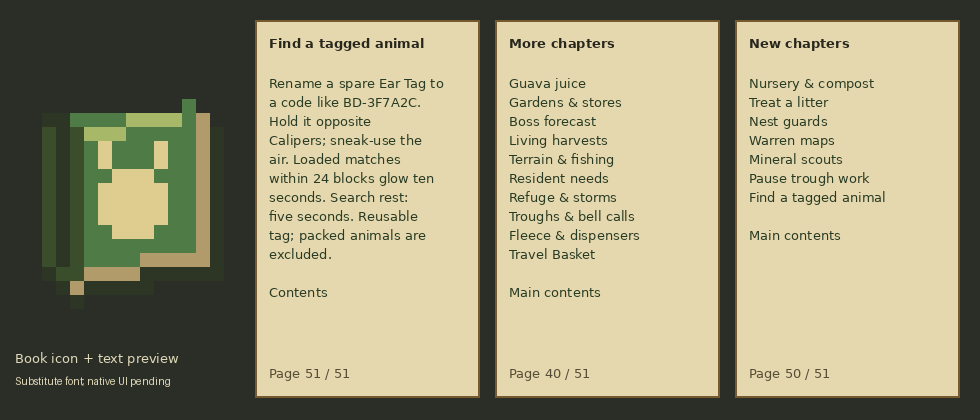
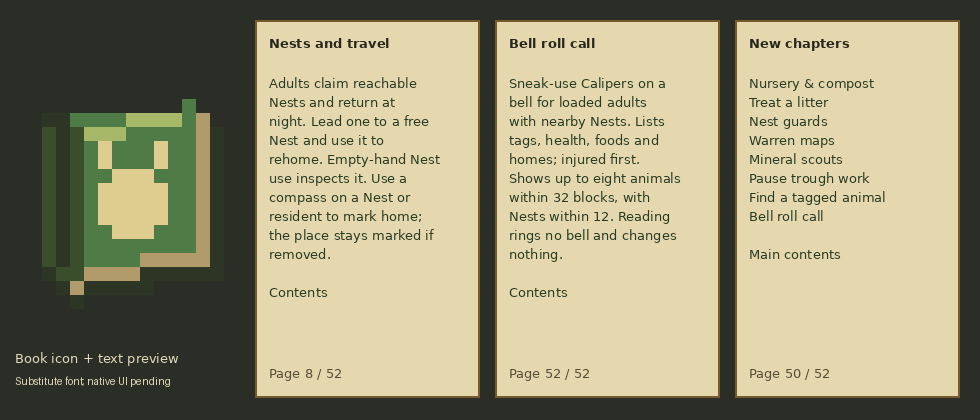
Add resident home compass marking and bell roll calls

diff --git a/art/gen_guide.py b/art/gen_guide.py
@@ -11,7 +11,7 @@ PAGES = {
     5: ('Hatch the litter', 'Plant a seed on farmland; dispensers plant into air above it. Bone meal speeds growth; hand or dispenser Starlit Dust ripens it. Break the ripe crop to hatch pups. Fortune improves quality. Leave room.'),
     6: ('Guava quality', 'Better guavas improve inherited stat gains. Feed both parents: their qualities are averaged. Golden: 1, Diamond: 2, Netherite: 4, Star: 7, Beacon: 12, Dragon Egg: 20.'),
     7: ('Keep a pedigree', 'Log animals with a Pedigree Book; Ear Tags label them. Sneak-use with a filled basket in the other hand to log its animal. Normal use opens records. Filter contents by traits/tags or senses>=20; hover the field for syntax.'),
-    8: ('Nests and travel', 'Adults claim a reachable Nest and return at night. Lead an adult to a free Nest and use it to move home. Empty-hand use inspects the resident. Use a compass to mark a Nest; its place stays marked if removed.'),
+    8: ('Nests and travel', 'Adults claim reachable Nests and return at night. Lead one to a free Nest and use it to rehome. Empty-hand Nest use inspects it. Use a compass on a Nest or resident to mark home; the place stays marked if removed.'),
     9: ('Food and troughs', 'Guavas suit every line; other foods follow Diet. Fill a trough for healing. Injured adults can eat near their Nest at night; keep food and a safe route within four blocks of home. Sneak-empty withdraws stock.'),
     10: ('Life at home', 'Healthy adults visit nearby bells at noon. Ring one to call a daytime visit. Keep it within 12 blocks of home, with walking space. Injury, threats, leads, rides and night interrupt.'),
     11: ('Gentle sampling', 'Use a Sampling Syringe on an animal at half health or better. It yields one Tissue Sample without harm; recovery takes five minutes. Sneak-use Calipers for care readiness and timers.'),
@@ -38,7 +38,7 @@ PAGES = {
     32: ('Find refuge', 'Non-feral residents retreat from visible threats to a safer dry spot near home. Meals and work pause. Leads and rides take over. Feral lines keep their retaliation. No safe route means no retreat.'),
     33: ('Storm shelter', 'Idle adults wait under cover near their Nest during thunderstorms. Leave a dry floor, room to stand and a safe route. Meals, work, danger and player control take priority. Normal rain keeps idle routines.'),
     34: ('Trough automation', 'Hoppers fill and drain troughs. Power the hopper to hold food. Stock: one matching stack, up to 16; comparators read 0 empty to 15 full. A hoe toggles gardening. Redstone pauses residents: page 49.'),
-    35: ('Bell calls', 'Ring a bell within 12 blocks of a Nest to call healthy adults by day. Redstone and projectiles work too. Leave safe walking space. Visits last up to 20 seconds, with a minute of rest. Leads and care take priority.'),
+    35: ('Bell calls', 'Ring a bell within 12 blocks of a Nest to call healthy adults by day. Redstone and projectiles work too. Safe paths, leads and care take priority. Visits: 20 seconds, one-minute rest. Sneak-Calipers: roll call (page 52).'),
     36: ('Fleece colors', 'Woolly adults yield two wool in their coat colors. Spotted gives one yellow and one brown. Glow gives cyan; moss green; ember red; void purple. Hidden coats add nothing. Calipers names the ready yield.'),
     37: ('Trough filters', 'Sneak-use food to reserve a trough for that exact food and its components, without spending it. Hoppers and gardeners obey the filter. Sneak-empty withdraws stock; repeat while empty to clear the filter.'),
     38: ('Care dispensers', 'Dispensers use Brushes or Sampling Syringes on one eligible bunnidog ahead per pulse. One tool use; hand and machine share recovery. Collect drops with hoppers. Armadillo brushing still works.'),
@@ -53,13 +53,14 @@ PAGES = {
     48: ('Choose a mineral', 'Senses +20 scouts can focus: hold a mineral in the other hand. Raw metals/ingots select their ore; coal, redstone, lapis, gems, quartz or netherite scrap select theirs. No mineral is spent. Every focus shares the same survey rest.'),
     49: ('Pause trough work', 'Power a Feeding Trough to pause resident meals, crops and composting. Stock, filters, hoppers and comparator output still work. Remove power to resume at the next search. The hoe keeps its setting. Empty-hand inspection names the pause.'),
     51: ('Find a tagged animal', 'Rename a spare Ear Tag to a code like BD-3F7A2C. Hold it opposite Calipers; sneak-use the air. Loaded matches within 24 blocks glow ten seconds. Search rest: five seconds. Reusable tag; packed animals are excluded.'),
+    52: ('Bell roll call', 'Sneak-use Calipers on a bell for loaded adults with nearby Nests. Lists tags, health, foods and homes; injured first. Shows up to eight animals within 32 blocks, with Nests within 12. Reading rings no bell and changes nothing.'),
 }
-PAGE_COUNT = 51
+PAGE_COUNT = 52
 MAIN_INDEX = {2:'Warrens & scouts',4:'Breeding & seeds',8:'Homes & food',11:'Care & traits',15:'Lab & splicing',
               17:'Registry & shows',19:'Material drops',20:'Apex of the Line'}
 MORE_INDEX = {24:'Guava juice',25:'Gardens & stores',27:'Boss forecast',28:'Living harvests',29:'Terrain & fishing',
               31:'Resident needs',32:'Refuge & storms',34:'Troughs & bell calls',36:'Fleece & dispensers',39:'Travel Basket'}
-NEW_INDEX = {41:'Nursery & compost',44:'Treat a litter',45:'Nest guards',46:'Warren maps',47:'Mineral scouts',49:'Pause trough work',51:'Find a tagged animal'}
+NEW_INDEX = {41:'Nursery & compost',44:'Treat a litter',45:'Nest guards',46:'Warren maps',47:'Mineral scouts',49:'Pause trough work',51:'Find a tagged animal',52:'Bell roll call'}
 
 
 def pantry_guide_pool():
@@ -107,7 +108,7 @@ def main():
         bold = ImageFont.truetype('DejaVuSans-Bold.ttf',13)
     except OSError:
         font = bold = ImageFont.load_default()
-    for x,page in [(255,51),(495,40),(735,50)]:
+    for x,page in [(255,8),(495,52),(735,50)]:
         d.rectangle((x,20,x+224,397),fill=(230,216,174),outline=(117,90,48),width=2)
         title = 'Bunnidogs Guide' if page == 1 else 'More chapters' if page == 40 else 'New chapters' if page == 50 else PAGES[page][0]
         d.text((x+14,35),title,font=bold,fill=(40,39,30))

diff --git a/tools/gametest/java/com/bunnidogs/mod/entity/NestMarkerGameTest.java b/tools/gametest/java/com/bunnidogs/mod/entity/NestMarkerGameTest.java
@@ -93,6 +93,38 @@ public final class NestMarkerGameTest {
             h.assertTrue(extra.getCount() == 1 && drops.stream().mapToInt(item -> item.getItem().getCount()).sum() == 1,
                     "A full survival inventory must drop exactly the one marked compass");
             h.assertTrue(first.equals(dog.homeNest()),"Marking, re-marking and overflow must not move the resident");
+            var residentCompass = new ItemStack(Items.COMPASS);
+            residentCompass.set(DataComponents.CUSTOM_NAME,Component.literal("Resident's home"));
+            player.setItemInHand(InteractionHand.OFF_HAND,residentCompass);
+            dog.mobInteract(player,InteractionHand.OFF_HAND);
+            h.assertTrue(expected.equals(residentCompass.get(DataComponents.LODESTONE_TRACKER))
+                    && residentCompass.getHoverName().getString().equals("Resident's home") && first.equals(dog.homeNest())
+                    && pois.getCountInRange(holder -> holder.is(ModPoi.NEST.getKey()),first,0,PoiManager.Occupancy.IS_OCCUPIED) == 1,
+                    "A resident must mark its actual home on a named off-hand compass without moving or claiming a ticket");
+            var unchangedResident = residentCompass.copy();
+            player.setShiftKeyDown(true); dog.mobInteract(player,InteractionHand.OFF_HAND); player.setShiftKeyDown(false);
+            h.assertTrue(ItemStack.matches(residentCompass,unchangedResident) && dog.scoutingWait() == 0,
+                    "Sneaking must retain the separate mineral-scout gesture and its trait refusal");
+            player.gameMode.changeGameModeForPlayer(GameType.ADVENTURE);
+            var refused = new ItemStack(Items.COMPASS); player.setItemInHand(InteractionHand.OFF_HAND,refused);
+            dog.mobInteract(player,InteractionHand.OFF_HAND);
+            h.assertTrue(!refused.has(DataComponents.LODESTONE_TRACKER),"Adventure permission must prevent resident home marking");
+            player.gameMode.changeGameModeForPlayer(GameType.SURVIVAL);
+            level.setBlock(first,Blocks.AIR.defaultBlockState(),3);
+            dog.mobInteract(player,InteractionHand.OFF_HAND);
+            h.assertTrue(!refused.has(DataComponents.LODESTONE_TRACKER) && first.equals(dog.homeNest()),
+                    "A known loaded missing Nest must refuse without editing the cached animal home");
+            var remote = first.offset(4096,0,4096);
+            h.assertTrue(!level.hasChunkAt(remote),"Recorded remote Nest fixture must start unloaded");
+            var savedDog = TagValueOutput.createWithContext(ProblemReporter.DISCARDING,level.registryAccess());
+            dog.saveWithoutId(savedDog); var savedTag = savedDog.buildResult();
+            savedTag.putInt("NestX",remote.getX()); savedTag.putInt("NestY",remote.getY()); savedTag.putInt("NestZ",remote.getZ());
+            var traveling = ModEntities.BUNNIDOG.get().create(level,net.minecraft.world.entity.EntitySpawnReason.LOAD);
+            traveling.load(TagValueInput.create(ProblemReporter.DISCARDING,level.registryAccess(),savedTag));
+            traveling.mobInteract(player,InteractionHand.OFF_HAND);
+            var remoteMarker = new LodestoneTracker(Optional.of(GlobalPos.of(level.dimension(),remote)),false);
+            h.assertTrue(remoteMarker.equals(refused.get(DataComponents.LODESTONE_TRACKER)) && !level.hasChunkAt(remote)
+                    && remote.equals(traveling.homeNest()),"Marking a recorded unloaded home must not load terrain or change its coordinates");
             h.succeed();
         });
     }

diff --git a/tools/gametest/java/com/bunnidogs/mod/entity/BellCallGameTest.java b/tools/gametest/java/com/bunnidogs/mod/entity/BellCallGameTest.java
@@ -3,12 +3,20 @@ package com.bunnidogs.mod.entity;
 import com.bunnidogs.mod.genetics.Genome;
 import com.bunnidogs.mod.registry.ModBlocks;
 import com.bunnidogs.mod.registry.ModEntities;
+import com.bunnidogs.mod.registry.ModItems;
 import net.minecraft.core.BlockPos;
 import net.minecraft.core.Direction;
 import net.minecraft.gametest.framework.GameTestHelper;
 import net.minecraft.world.level.GameType;
 import net.minecraft.world.level.block.BellBlock;
 import net.minecraft.world.level.block.Blocks;
+import net.minecraft.core.component.DataComponents;
+import net.minecraft.world.InteractionHand;
+import net.minecraft.world.item.ItemStack;
+import net.minecraft.world.item.context.UseOnContext;
+import net.minecraft.world.phys.BlockHitResult;
+import net.minecraft.world.phys.Vec3;
+import net.minecraft.network.chat.Component;
 
 public final class BellCallGameTest {
     private BellCallGameTest() {}
@@ -31,6 +39,26 @@ public final class BellCallGameTest {
                 var gathering = new BellGatherGoal(dog);
                 h.assertTrue(!gathering.canUse(),"A failed noon lookup must establish the normal search backoff");
                 h.setBlock(4,1,4,Blocks.BELL);
+                var calipers = new ItemStack(ModItems.CALIPERS.get());
+                calipers.set(DataComponents.CUSTOM_NAME,Component.literal("Bell readout"));
+                player.setItemInHand(InteractionHand.OFF_HAND,calipers); player.setShiftKeyDown(true);
+                var before = calipers.copy(); var genes = dog.genome(); var stats = dog.stats();
+                dog.applyEarTag();
+                var census = ResidentCensus.nearby(level,bell);
+                h.assertTrue(census.contains(dog),"Bell roll call must include an adult with a real nearby claimed home");
+                // This native mock Player has no connection; use the real item entry with the server-level readout.
+                calipers.getItem().useOn(new UseOnContext(level,player,InteractionHand.OFF_HAND,calipers,
+                        new BlockHitResult(Vec3.atCenterOf(bell),Direction.UP,bell,false)));
+                h.assertTrue(dog.calledBell() == null && home.equals(dog.homeNest()) && ItemStack.matches(before,calipers)
+                        && dog.genome().equals(genes) && dog.stats().equals(stats),
+                        "Sneak-Calipers roll call must not ring, queue visits, change homes/biology or alter the tool");
+                dog.setAge(-100);
+                h.assertTrue(!ResidentCensus.nearby(level,bell).contains(dog),"Roll call excludes pups even with a cached home");
+                dog.setAge(0);
+                var remote = bell.offset(4096,0,4096);
+                h.assertTrue(!level.hasChunkAt(remote) && ResidentCensus.nearby(level,remote).isEmpty() && !level.hasChunkAt(remote),
+                        "Roll call must never request remote terrain");
+                player.setShiftKeyDown(false); player.setItemInHand(InteractionHand.OFF_HAND,ItemStack.EMPTY);
                 level.clockManager().setTotalTicks(clock,1000);
                 var nativeBell = (BellBlock)Blocks.BELL;
                 dog.setHealth(dog.getMaxHealth()-1);

diff --git a/src/main/java/com/bunnidogs/mod/entity/ResidentCensus.java b/src/main/java/com/bunnidogs/mod/entity/ResidentCensus.java
@@ -1,0 +1,42 @@
+package com.bunnidogs.mod.entity;
+
+import java.util.Comparator;
+import java.util.List;
+import java.util.Locale;
+import com.bunnidogs.mod.genetics.Social;
+import net.minecraft.ChatFormatting;
+import net.minecraft.core.BlockPos;
+import net.minecraft.network.chat.Component;
+import net.minecraft.server.level.ServerLevel;
+import net.minecraft.world.entity.player.Player;
+import net.minecraft.world.phys.AABB;
+
+/** Cheap read-only roll call. Cached homes and loaded entities only; no POI, route or food searches. */
+public final class ResidentCensus {
+    private static final int MAX_ROWS = 8;
+    private ResidentCensus() {}
+    static List<Bunnidog> nearby(ServerLevel level, BlockPos bell) {
+        var residents = level.getEntitiesOfClass(Bunnidog.class,new AABB(bell).inflate(Social.CALL_RANGE),
+                dog -> dog.isAlive() && dog.acceptsCare() && !dog.isBaby() && dog.homeNest() != null
+                        && dog.homeNest().distSqr(bell) <= Social.BELL_RANGE*Social.BELL_RANGE
+                        && bell.closerToCenterThan(dog.position(),Social.CALL_RANGE)
+                        && level.getWorldBorder().isWithinBounds(dog.blockPosition()));
+        residents.sort(Comparator.comparing((Bunnidog dog) -> dog.getHealth() >= dog.getMaxHealth())
+                .thenComparingDouble(dog -> dog.homeNest().distSqr(bell)).thenComparing(Bunnidog::getUUID));
+        return residents;
+    }
+    public static void show(ServerLevel level, BlockPos bell, Player player) {
+        var residents = nearby(level,bell);
+        long injured = residents.stream().filter(dog -> dog.getHealth() < dog.getMaxHealth()).count();
+        player.sendSystemMessage(Component.translatable("message.bunnidogs.census.header",residents.size(),injured,
+                Social.BELL_RANGE,Social.CALL_RANGE).withStyle(ChatFormatting.GOLD));
+        for (var dog : residents.subList(0,Math.min(MAX_ROWS,residents.size()))) {
+            var home = dog.homeNest();
+            player.sendSystemMessage(Component.translatable("message.bunnidogs.census.row",dog.getDisplayName(),dog.earTag().orElse("—"),
+                    String.format(Locale.ROOT,"%.1f / %.1f",dog.getHealth(),dog.getMaxHealth()),dog.diet().foods(),
+                    home.getX(),home.getY(),home.getZ()).withStyle(dog.getHealth() < dog.getMaxHealth() ? ChatFormatting.YELLOW : ChatFormatting.GRAY));
+        }
+        if (residents.size() > MAX_ROWS) player.sendSystemMessage(Component.translatable("message.bunnidogs.census.more",residents.size()-MAX_ROWS)
+                .withStyle(ChatFormatting.DARK_GRAY));
+    }
+}

diff --git a/src/main/java/com/bunnidogs/mod/item/CalipersItem.java b/src/main/java/com/bunnidogs/mod/item/CalipersItem.java
@@ -11,6 +11,7 @@ import com.bunnidogs.mod.block.NurseryCradleBlock;
 import com.bunnidogs.mod.entity.NurseryHatching;
 import com.bunnidogs.mod.entity.Bunnidog;
 import com.bunnidogs.mod.entity.ResidentFinding;
+import com.bunnidogs.mod.entity.ResidentCensus;
 import com.bunnidogs.mod.genetics.Gene;
 import com.bunnidogs.mod.genetics.Diet;
 import com.bunnidogs.mod.genetics.Foraging;
@@ -37,6 +38,7 @@ import net.minecraft.world.item.TooltipFlag;
 import net.minecraft.world.item.component.TooltipDisplay;
 import net.minecraft.world.item.context.UseOnContext;
 import net.minecraft.world.level.Level;
+import net.minecraft.world.level.block.Blocks;
 
 /**
  * The Calipers show the exact genes and stats of what they touch. Ordinary measurements are read-only;
@@ -180,6 +182,10 @@ public class CalipersItem extends Item {
         Level level = context.getLevel();
         Player player = context.getPlayer();
         if (player == null) return InteractionResult.PASS;
+        if (player.isShiftKeyDown() && level.getBlockState(context.getClickedPos()).is(Blocks.BELL)) {
+            if (level instanceof ServerLevel server) ResidentCensus.show(server,context.getClickedPos(),player);
+            return InteractionResult.SUCCESS;
+        }
         var block = level.getBlockEntity(context.getClickedPos());
         Optional<Seed> planted;
         if (block instanceof SeedCropBlockEntity crop) planted = crop.seed();
@@ -232,6 +238,7 @@ public class CalipersItem extends Item {
         lines.accept(Component.literal("Right-click a planted seed or Nursery Cradle: litter forecast").withStyle(ChatFormatting.GRAY));
         lines.accept(Component.translatable("tooltip.bunnidogs.calipers.cradle").withStyle(ChatFormatting.DARK_GRAY));
         lines.accept(Component.translatable("tooltip.bunnidogs.calipers.finder").withStyle(ChatFormatting.DARK_GRAY));
+        lines.accept(Component.translatable("tooltip.bunnidogs.calipers.census").withStyle(ChatFormatting.DARK_GRAY));
         lines.accept(Component.literal("Or hold a seed, sample or occupied Travel Basket in the other hand").withStyle(ChatFormatting.DARK_GRAY));
         lines.accept(Component.literal("Off hand when you kill: a Tissue Sample").withStyle(ChatFormatting.DARK_GRAY));
     }

diff --git a/src/main/java/com/bunnidogs/mod/entity/ResidentWayfinding.java b/src/main/java/com/bunnidogs/mod/entity/ResidentWayfinding.java
@@ -1,0 +1,33 @@
+package com.bunnidogs.mod.entity;
+
+import com.bunnidogs.mod.item.PlaceMarkers;
+import com.bunnidogs.mod.registry.ModBlocks;
+import net.minecraft.network.chat.Component;
+import net.minecraft.server.level.ServerLevel;
+import net.minecraft.sounds.SoundEvents;
+import net.minecraft.sounds.SoundSource;
+import net.minecraft.world.InteractionHand;
+import net.minecraft.world.InteractionResult;
+import net.minecraft.world.entity.player.Player;
+
+/** Marks the animal's recorded home, including while its terrain is unloaded. Never moves or claims it. */
+public final class ResidentWayfinding {
+    private ResidentWayfinding() {}
+    public static InteractionResult markHome(Bunnidog dog, Player player, InteractionHand hand) {
+        if (!player.mayBuild()) return InteractionResult.PASS;
+        if (!(dog.level() instanceof ServerLevel level)) return InteractionResult.SUCCESS;
+        var home = dog.homeNest();
+        if (!dog.isAlive() || !dog.acceptsCare() || home == null) {
+            player.sendOverlayMessage(Component.translatable("message.bunnidogs.home_marker.none"));
+        } else if (!level.getWorldBorder().isWithinBounds(home) || level.isOutsideBuildHeight(home)
+                || level.hasChunkAt(home) && !level.getBlockState(home).is(ModBlocks.NEST.get())) {
+            player.sendOverlayMessage(Component.translatable("message.bunnidogs.home_marker.missing"));
+        } else {
+            PlaceMarkers.bind(level,home,player,hand);
+            player.sendSystemMessage(Component.translatable("message.bunnidogs.home_marker.marked",dog.getDisplayName(),
+                    home.getX(),home.getY(),home.getZ()));
+            level.playSound(null,dog.blockPosition(),SoundEvents.LODESTONE_COMPASS_LOCK,SoundSource.PLAYERS,.6F,1);
+        }
+        return InteractionResult.SUCCESS;
+    }
+}

diff --git a/src/main/java/com/bunnidogs/mod/item/FieldGuideItem.java b/src/main/java/com/bunnidogs/mod/item/FieldGuideItem.java
@@ -12,7 +12,7 @@ import net.minecraft.world.item.component.WrittenBookContent;
 
 /** Native book UI/packets, translated pages and local page links; no custom screen or payload. */
 public final class FieldGuideItem extends WrittenBookItem {
-    public static final int PAGE_COUNT = 51;
+    public static final int PAGE_COUNT = 52;
     private static final int MORE_CONTENTS = 40;
     private static final int NEW_CONTENTS = 50;
     public FieldGuideItem(Properties properties) {
@@ -29,7 +29,7 @@ public final class FieldGuideItem extends WrittenBookItem {
                 continue;
             }
             if (page == NEW_CONTENTS) {
-                pages.add(Filterable.passThrough(contents("guide.bunnidogs.new_contents",new int[]{41,44,45,46,47,49,51},
+                pages.add(Filterable.passThrough(contents("guide.bunnidogs.new_contents",new int[]{41,44,45,46,47,49,51,52},
                         "guide.bunnidogs.main_contents",1)));
                 continue;
             }

diff --git a/src/main/java/com/bunnidogs/mod/entity/Bunnidog.java b/src/main/java/com/bunnidogs/mod/entity/Bunnidog.java
@@ -508,7 +508,8 @@ public class Bunnidog extends Animal implements net.neoforged.neoforge.common.IS
     @Override
     public InteractionResult mobInteract(Player player, InteractionHand hand) {
         ItemStack held = player.getItemInHand(hand);
-        if (held.is(Items.COMPASS) && player.isShiftKeyDown()) return MineralScouting.use(this,player,hand);
+        if (held.is(Items.COMPASS)) return player.isShiftKeyDown() ? MineralScouting.use(this,player,hand)
+                : ResidentWayfinding.markHome(this,player,hand);
         if (held.is(Items.BONE) && player.isShiftKeyDown()) {
             if (!player.mayBuild()) return InteractionResult.PASS;
             if (!this.level().isClientSide()) {

diff --git a/src/main/java/com/bunnidogs/mod/item/PlaceMarkers.java b/src/main/java/com/bunnidogs/mod/item/PlaceMarkers.java
@@ -9,7 +9,7 @@ import net.minecraft.world.entity.player.Player;
 import net.minecraft.world.item.component.LodestoneTracker;
 import net.minecraft.world.level.Level;
 
-/** Persistent native place markers shared by Nests and mineral scouts. Call on the server with a compass. */
+/** Persistent native place markers shared by Nests, residents and mineral scouts. Call on the server with a compass. */
 public final class PlaceMarkers {
     private PlaceMarkers() {}
     public static void bind(Level level, BlockPos pos, Player player, InteractionHand hand) {

diff --git a/START_HERE.md b/START_HERE.md
@@ -22,6 +22,13 @@ checkpoints/compaction and reserve only the capacity needed to deliver safely.
 
 ## Latest gameplay work — 2026-10-18
 
+- **H8/L18, resident wayfinding and roll call:** normal compass use on a
+  resident marks its recorded Nest without requesting its terrain. Sneak-use
+  Calipers on a bell for loaded neighbors, injured first, with tags/health/
+  foods/homes. Both preserve tickets and animal state. Java 25 build/all 41
+  cases pass; home/roll-call/index preview inspected. See `docs/HOME_SPECS.md`
+  H8 and `docs/SETTLEMENT_LIFE.md` L18.
+
 - **E5, resident finder:** rename a spare Ear Tag to an animal code and
   sneak-use Calipers with it opposite. Loaded matches within 24 blocks get
   ten seconds of native outline; five-second native tool rest also follows
@@ -171,7 +178,7 @@ storm shelter, fishing, terrain traits, local supplies, living dust and fitted
 farms are also complete. Their rules/evidence remain in the specifications
 listed below; do not redo them.
 
-The native Field Guide has 51 translated pages and twenty-five chapter links
+The native Field Guide has 52 translated pages and twenty-six chapter links
 across three linked contents pages.
 `art/gen_guide.py` owns text/icon/preview; `art/gen_pantries.py` owns eight
 lineage food tables and shares the guide pool. See `docs/FIELD_GUIDE.md`.
@@ -188,8 +195,8 @@ lineage food tables and shares the guide pool. See `docs/FIELD_GUIDE.md`.
 | Registry and shows | Distinct stable bred lines, linked snapshots, balanced-stat bronze/silver/gold judging, per-animal awards, ribbons and Champion Line. `docs/REGISTRY_SPECS.md`, `docs/SHOW_SPECS.md` |
 | Care | Live samples, fleece palettes, whiskers/dust/moss, dispenser care, saved recoveries and sneak-Calipers home/food/care/work status. `docs/CARE_SPECS.md` C1–C9 |
 | Adaptations | Expressed fire/cold/fall/Poison/cactus/Levitation benefits, slate armor, heavy-build knockback resistance, self-lit glow, terrain movement and snow footing. `docs/CARE_SPECS.md` A1–A5 |
-| Homes/travel | Claimable Nests, day tether/night return, floor Nests, native leads/rides, led-adult reassignment, Travel Baskets and persistent compass place markers. `docs/HOME_SPECS.md` H1–H7 |
-| Settlement life | Saved trough stock/automation/filters/redstone pause, diet healing/short night meals, bell visits, fitted furniture, harvest/cultivation/surplus composting, guava compost data, local stores, refuge, storm shelter and opt-in feral Nest guards. `docs/SETTLEMENT_LIFE.md` L1–L17 |
+| Homes/travel | Claimable Nests, day tether/night return, floor Nests, native leads/rides, led-adult reassignment, Travel Baskets and persistent compass place markers, including resident homes. `docs/HOME_SPECS.md` H1–H8 |
+| Settlement life | Saved trough stock/automation/filters/redstone pause, diet healing/short night meals, bell visits, fitted furniture, harvest/cultivation/surplus composting, guava compost data, local stores, refuge, storm shelter and opt-in feral Nest guards and a read-only bell roll call. `docs/SETTLEMENT_LIFE.md` L1–L18 |
 | Warrens | Fitted dens/mouths/tunnels/cellars, landmark rooms, grand-tree hall/loop/lower commons, cave/Nether/End entrances and saved labels. `docs/WARREN_PLAN.md` U1–U8 |
 | Exploration | Native cartographer Warren Maps, bred bat-ear compass surveys with optional mineral-family focus at Senses +20, native working-line milestones and a loaded tagged-resident finder. `docs/EXPLORATION_SPECS.md` E1–E5 |
 | Wood and travel | Guava building/redstone set, doors/shutters/lamps, four sign forms, native boats/chest boats with custom assets and drops. `docs/FIXES_PLAN.md` 4–5 |

diff --git a/docs/SETTLEMENT_LIFE.md b/docs/SETTLEMENT_LIFE.md
@@ -1,8 +1,33 @@
-# Settlement life L1–L17
+# Settlement life L1–L18
 
 Implemented 2026-10-16 under standing continuation authorization. Careful,
 home-bounded routines make resident animals useful and settlements feel occupied.
 No hunger/starvation system, forced breeding or changes to existing containers.
+
+## L18: read-only bell roll call
+
+Sneak-use Calipers on a bell to list loaded living adult residents whose
+recorded Nests are within twelve blocks of it, while the animals themselves
+are within the native thirty-two-block call radius. No home/terrain/POI/path/
+food search occurs. Unloaded, homeless, pup and Apex animals are excluded.
+This is a local snapshot, not a full settlement census or a promise of visit
+readiness. Adventure players may read it like ordinary Calipers measurements.
+
+Persistent chat gives total loaded/injured counts and up to eight rows of
+name, Ear Tag, current/max health, suitable foods and Nest coordinates. Injured
+animals come first, then nearest Nests and UUID ties. Large groups get an
+explicit remaining count. The code connects to E5 finding; the home connects
+to H8 compass marking. Reading rings no bell, queues no visit and edits no
+items, animal timers, health, home or ticket. No saved state/packet is added.
+The tooltip and guide page 52 describe the gesture.
+
+L18 evidence (2026-10-18): actual Java 25 build/all 41 native cases pass.
+The existing bell-call case reads the actual off-hand Calipers entry beside a
+real claimed resident, verifies no queued call or item/biology/home changes,
+excludes a pup with a cached home and searches a remote origin without loading
+terrain. Real native bell-ring/call/path/recovery cases remain passing.
+The roll-call/home/index preview is inspected; client chat/layout and larger
+natural-warren management remain gameplay review.
 
 ## L17: redstone trough pause
 

diff --git a/docs/FIELD_GUIDE.md b/docs/FIELD_GUIDE.md
@@ -58,8 +58,8 @@ containers are not refilled and player inventories are not edited. See
 
 ## Presentation and saves
 
-Fifty-one pages use the ordinary written-book screen. Three linked contents pages
-offer twenty-five clickable chapter links. Each chapter links back to its index. Local page changes
+Fifty-two pages use the ordinary written-book screen. Three linked contents pages
+offer twenty-six clickable chapter links. Each chapter links back to its index. Local page changes
 are the only click action. All text is translatable through en_us.json. The
 book stacks to one and appears beside the Calipers in Tools & Utilities.
 
@@ -77,8 +77,8 @@ resource-pack fonts may differ. The source preview uses a substitute font.
 ## Evidence
 
 The actual Java 25 build and current forty-one native server cases pass,
-including loading the book/recipe/loot resources. The expanded 51-page
-finder/More/New preview is inspected with a substitute font; all
+including loading the book/recipe/loot resources. The expanded 52-page
+home/roll-call/New preview is inspected with a substitute font; all
 three indices were also inspected for P4. Earlier
 pages were shortened using the conservative native text-area estimate.
 Native WrittenBookItem, ServerPlayer, ClientPacketListener and BookViewScreen
@@ -135,3 +135,7 @@ and navigation remain client gameplay review.
 E5 appends page 51, **Find a tagged animal**, with the renamed spare-tag
 Calipers gesture, 24-block loaded range, native outline and shared search rest.
 Page 50 gains its seventh chapter link; all older destinations remain stable.
+
+H8 extends page 8's compass gesture to residents. L18 adds **Bell roll call**
+on page 52; page 35 points to it and page 50 gains its eighth chapter link.
+Existing destinations/native book components remain stable.
